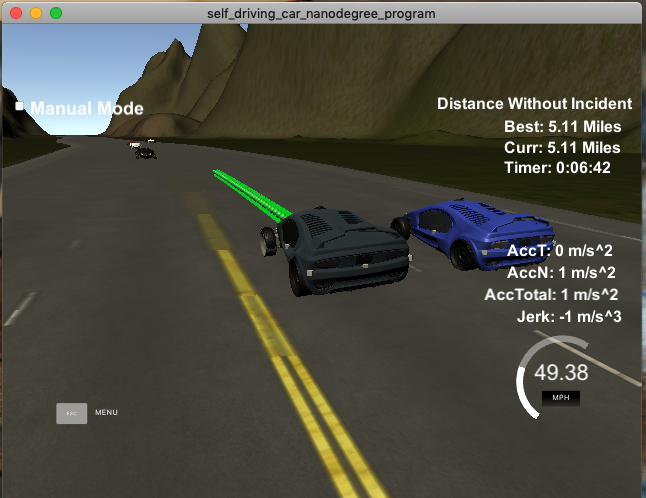
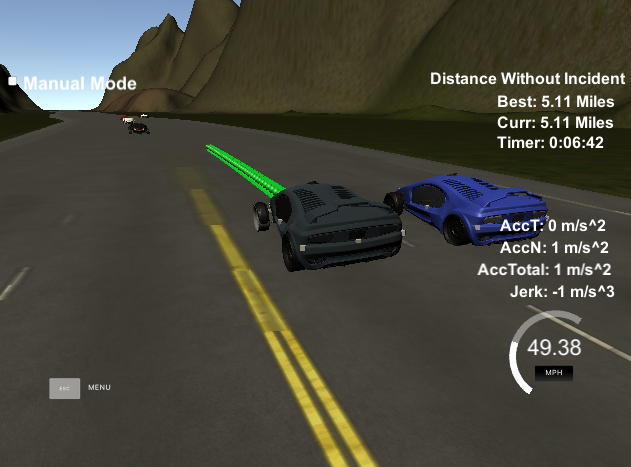
Cropped Images + Changes to README

diff --git a/README.md b/README.md
@@ -85,21 +85,21 @@ The simulation was run for a distance of 5 miles without any incidents. The enti
 
 ![][final_image]
 
-#### Reflection
+### Reflection
 
 Most of the code required for running the project was already provided as part of the code repo. The real meat of the path planning algorithm can be found in [lines 102 to 285](./src/main.cpp#L102) of ```main.cpp```. This section deals with a few different key aspects
 
-##### Understanding the Environment
+#### Understanding the Environment
 
 This section deals with trying to ascertain the environment around the car using sensor fusion data. Is there a slow moving car ahead of us in our lane? If so, are there cars in our neighboring lanes hindering a lane change. This will be used to determine whether a lane change is necessary/feasible. For this purpose, we tag every other car as *dangerous* or not by ascertaining which lane they are in and the position it will be at the end of our car's planned trajectory. This section of the code can be found in [lines 116 - 153](./src/main.cpp#L116)
 
-##### Lane Change Action
+#### Lane Change Action
 
 Now that we have the necessary information to decide whether to change lanes or not, the section in [lines 155 - 176](./src/main.cpp#L155) executes the action. Depending on the previous section, this could mean: execute a lane change, slow down or speed up (if it has switched lanes after a slow down). This differential is captured in the ```change_vel``` variable.
 
 ![][lane_change]
 
-##### Trajectory planning
+#### Trajectory planning
 
 The rest of the code ([lines 177 - 285](./src/main.cpp#L177)) deals the with the generation of the trajectory for the car to follow. This obviously then takes information from the previous two sections to ensure a smooth and effective plan.
 
